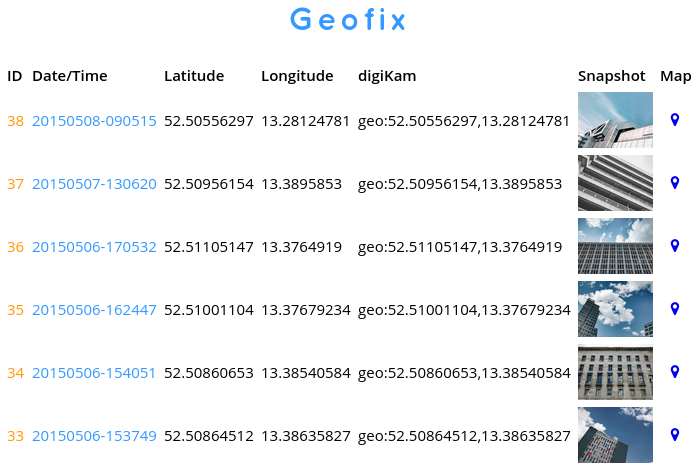
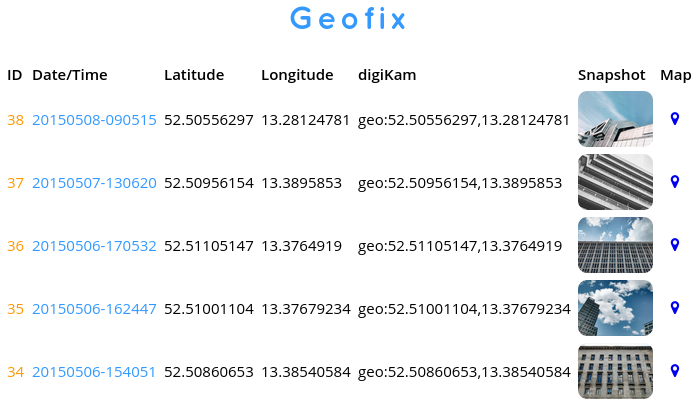
dn2820fykh-kubuntu :monkey:

diff --git a/geofix-web/static/styles.css b/geofix-web/static/styles.css
@@ -31,3 +31,9 @@ td.col_style_2 {
     letter-spacing: 2px;
     text-align: center;
 }
+img {
+    border:1px solid #;
+    -webkit-border-radius: 9px;
+    -moz-border-radius: 9px;
+    border-radius: 9px;
+}
